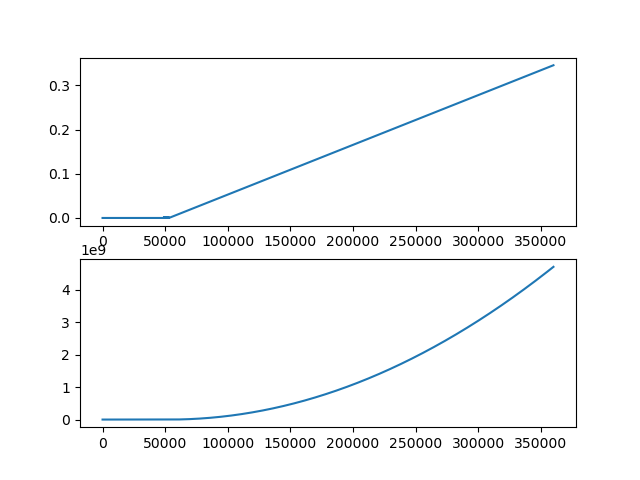
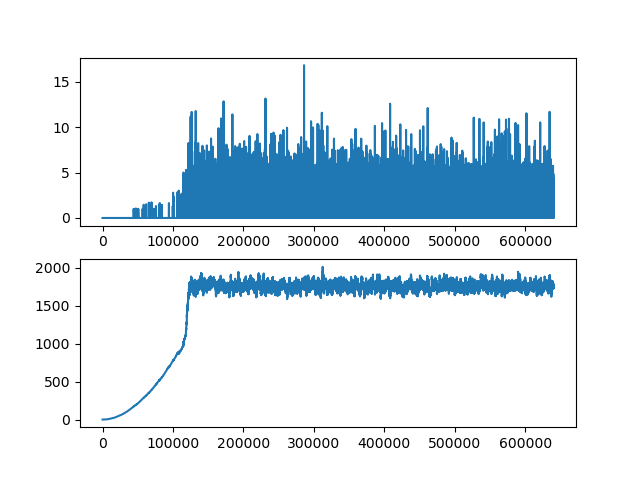
Working state. Reverted back

diff --git a/Avalanche.py b/Avalanche.py
@@ -6,6 +6,7 @@ __author__ = "Henri Lamarre"
 
 import numpy as np
 import Methods as met
+import time
 
 
 class avalanche():
@@ -86,20 +87,28 @@ class avalanche():
                     e += g
         # If there is an avalanche
         if e > 0:
-            # Rescale the mask of the avalanche
-            (fnx,fny) = np.nonzero(self.lat_C)
-            self.width_j[0] = min(fnx[fnx>0])
-            self.width_j[1] = max(fnx[fny<self.N-1])
-            self.width_k[0] = min(fny[fny>0])
-            self.width_k[1] = max(fny[fny<self.N-1])
-            print(self.width_k, self.width_j)
+            # Reset the width of the avalanche
+            self.width_j = [self.N - 1, 0]
+            self.width_k = [self.N - 1, 0]
+            for j in range(1, self.N - 1):
+                for k in range(1, self.N - 1):
+                    # Updates the width of the avalanche
+                    if self.lat_C[j][k] != 0:
+                        if j < self.width_j[0]:
+                            self.width_j[0] = j
+                        elif j > self.width_j[1]:
+                            self.width_j[1] = j
+                        if k < self.width_k[0]:
+                            self.width_k[0] = k
+                        elif k > self.width_k[1]:
+                            self.width_k[1] = k
 
-            # updates the lattice array
-            self.lat_B[1: -1][1: -1] += self.lat_C[1: -1][1: -1]
-            self.lat_C = np.zeros((self.N, self.N))
-            # We will not check only the lattice increment in the next loop
-            self.lattice_increment = False
-        # Otherwise, add a magnetism increment
+                    # updates the lattice array
+                    self.lat_B[j][k] = self.lat_B[j][k] + self.lat_C[j][k]
+                    self.lat_C[j][k] = 0
+            # makes sure that we check every lattice element in next step
+            self.lattice_increment = None
+        # Otherwise, add increment to grid
         else:
             # Find random lattice element
             randx, randy = np.random.randint(1, high=self.N - 1), np.random.randint(1, high=self.N - 1)
@@ -123,11 +132,14 @@ class avalanche():
 
 
 if __name__ == '__main__':
-    avalanche1 = avalanche(2, 6, -0.2, 0.8, images=False)
-    time = int(avalanche1.sugg_time)
-    for i in range(time):
+    start = time.time()
+    avalanche1 = avalanche(2, 8, -0.2, 0.8, images=False)
+    time_ = int(avalanche1.sugg_time)
+    for i in range(time_):
         if not i % 10000:
-            print(i)
+            print(str(int(i/time_*100)) + '%')
         avalanche1.step(i)
         # met.make_movie(avalanche1.mat_history)
-    met.plot_energies(avalanche1.el, avalanche1.er, time, avalanche1.e0)
+    end = time.time()
+    print(end - start)
+    met.plot_energies(avalanche1.el, avalanche1.er, time_, avalanche1.e0)

diff --git a/Methods.py b/Methods.py
@@ -30,7 +30,7 @@ def plot_energies(el, er, t, e0):
     as a function of time'''
     fig = plt.figure()
     ax1 = plt.subplot(211)
-    plt.plot(np.arange(t), np.array(er)/e0)
+    plt.plot(np.arange(t), np.array(er))
 
     # share x only
     ax2 = plt.subplot(212, sharex=ax1)
